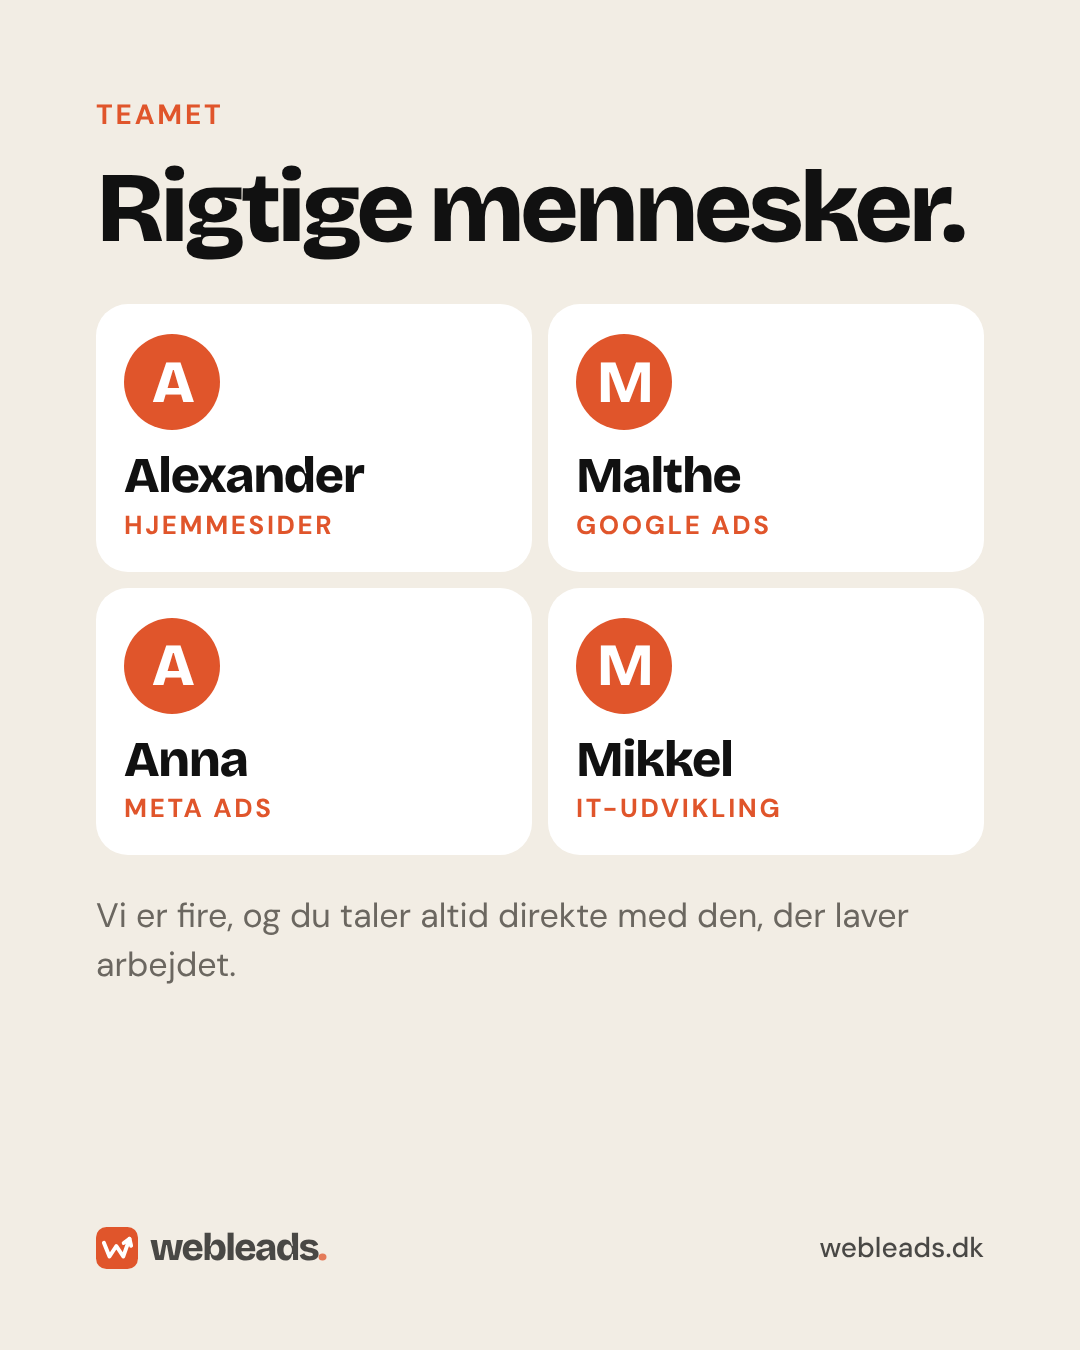
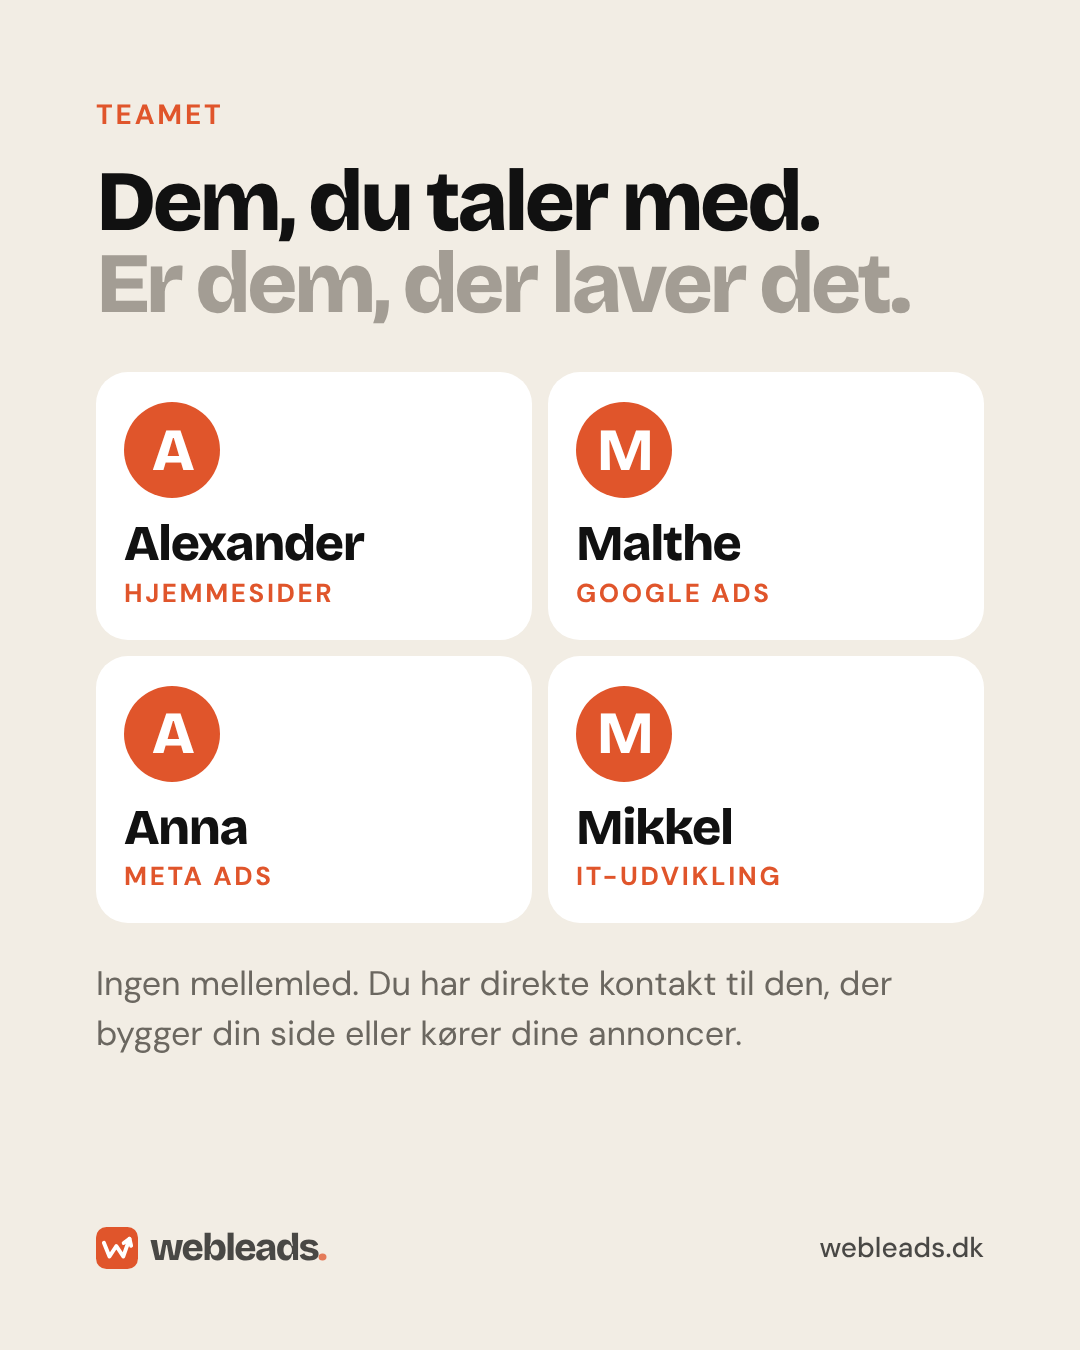
New team headline: Dem, du taler med. Er dem, der laver det.
Claude-Session: https://claude.ai/code/session_01R47vFHCEwp4wD7wmtL9Xui

Changed region(s): [[0.0917, 0.1244, 0.9167, 0.7778]]

diff --git a/index.html b/index.html
@@ -287,9 +287,9 @@
       <div class="sec-head" data-reveal="0">
         <div class="sec-head__title">
           <div class="kicker">Teamet</div>
-          <h2 class="h2">Rigtige mennesker.</h2>
+          <h2 class="h2">Dem, du taler med.<br><span class="dim">Er dem, der laver det.</span></h2>
         </div>
-        <p class="sec-head__lead">Vi er fire, og du taler altid direkte med den, der laver arbejdet.</p>
+        <p class="sec-head__lead">Ingen mellemled. Du har direkte kontakt til den, der bygger din side eller kører dine annoncer.</p>
       </div>
       <div class="team__grid">
         <button type="button" class="member" data-reveal="0" data-modal="team-0">

diff --git a/brand/social/posts/TEKSTER.md b/brand/social/posts/TEKSTER.md
@@ -74,14 +74,14 @@ Automations: fra 4.999 kr.
 Ingen binding. Du får altid en fast pris først.
 
 ## 08 · Teamet
-Rigtige mennesker.
+Dem, du taler med. Er dem, der laver det.
 
 Alexander: hjemmesider
 Malthe: Google Ads
 Anna: Meta Ads
 Mikkel: IT-udvikling
 
-Du taler altid direkte med den, der laver arbejdet. Skriv til os, vi svarer selv.
+Ingen mellemled. Du har direkte kontakt til den, der bygger din side eller kører dine annoncer. Skriv til os, vi svarer selv.
 
 ## 09 · Spørgsmål
 "Er der en månedlig betaling?"
